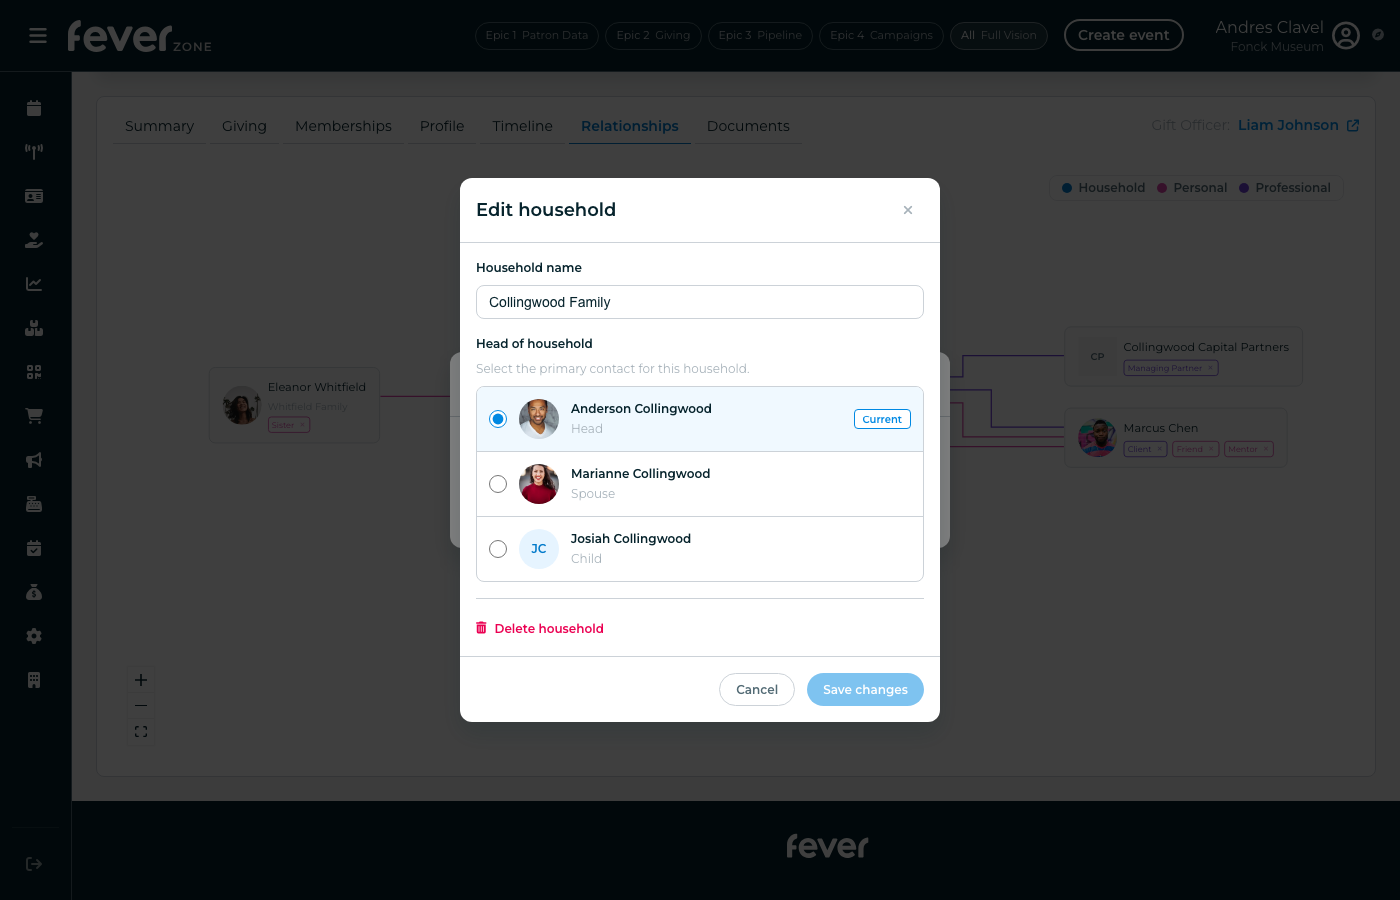
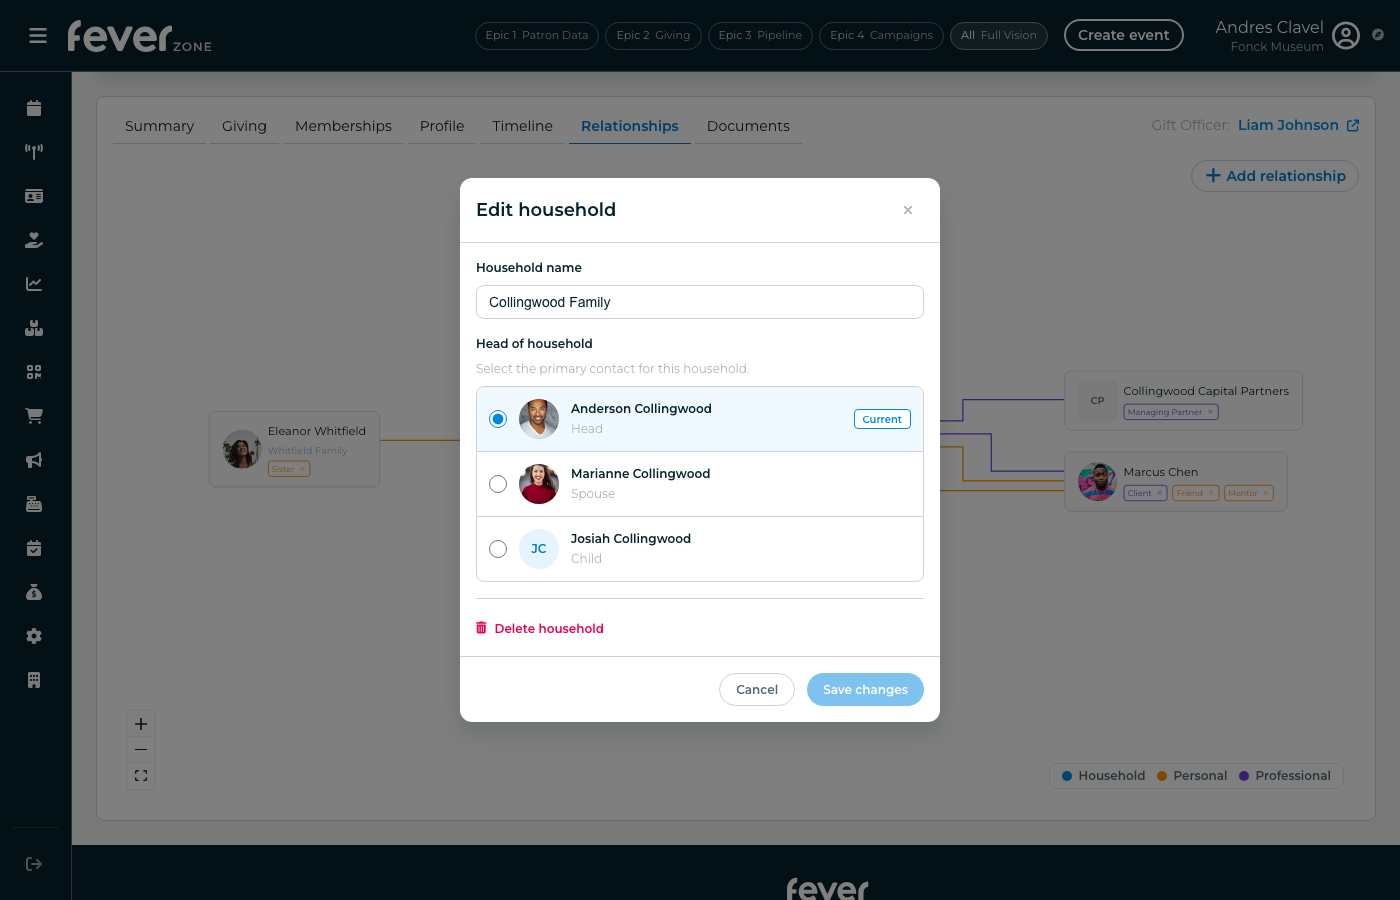
Recapture all walkthrough screenshots after modal redesign
Full refresh of 25 relationship screenshots + 1 new (02e-household-form)
to reflect redesigned modals: single-page forms for Household/Organization,
inline conflict detection, updated badge labels (Wife/Son vs Spouse/Child),
orange Personal color, bottom-right legend, and member count on household card.
Walkthrough descriptions in productGuide.js updated to match current UI.

diff --git a/src/data/productGuide.js b/src/data/productGuide.js
@@ -380,28 +380,28 @@ const GUIDE_CONTENT = {
                 {
                   title: 'Relationship Graph',
                   description:
-                    'The graph displays all relationship types color-coded: blue for Household, pink for Personal, purple for Professional/Organization. A legend in the top-right shows which types are present. The central patron sits inside the household card (if they belong to one), with external connections branching outward.',
+                    'The graph displays all relationship types color-coded: blue for Household, orange for Personal, purple for Professional/Organization. A legend in the bottom-right shows which types are present. The central patron sits inside the household card (showing member count, e.g., "Collingwood Family (3)"), with external connections branching outward. Two CTAs appear inside the household card: "+ Add household member" and "Edit household".',
                   media: '/screenshots/relationships/09-graph-fitview.png',
                   mediaType: 'image',
                 },
                 {
                   title: 'Bridging Cards & Staggered Routing',
                   description:
-                    'When a patron has both personal and professional relationships (e.g., Marcus Chen as Friend + Client + Mentor), the graph consolidates them into a single bridging card with stacked role badges. Each connector edge arrives at a different vertical offset to prevent overlap.',
+                    'When a patron has both personal and professional relationships (e.g., Marcus Chen as Client + Friend + Mentor), the graph consolidates them into a single bridging card with stacked role badges. Each connector edge arrives at a different vertical offset to prevent overlap.',
                   media: '/screenshots/relationships/01-graph-overview.png',
                   mediaType: 'image',
                 },
                 {
                   title: 'Edge Labels & Color Coding',
                   description:
-                    'Connector edges display the role name (e.g., "Spouse", "Sister", "Client") as an inline label, color-matched to the relationship type. This keeps the graph self-documenting — no need to hover or click to understand each connection.',
+                    'Connector edges display the role name (e.g., "Wife", "Sister", "Client") as an inline label, color-matched to the relationship type. This keeps the graph self-documenting — no need to hover or click to understand each connection.',
                   media: '/screenshots/relationships/14-edge-labels.png',
                   mediaType: 'image',
                 },
                 {
                   title: 'Empty State',
                   description:
-                    'Patrons with no relationships see a centered "No Relationships Mapped" message with a prominent "+ Add relationship" CTA (showing all four types since no household exists yet). The empty state helps onboard new patrons into the relationship graph.',
+                    'Patrons with no relationships see a centered message — "Explore the connections between users, such as Households, professional ties, and more" — with a prominent blue "+ Add new relationship" button. The empty state guides onboarding for new patrons.',
                   media: '/screenshots/relationships/12-empty-state.png',
                   mediaType: 'image',
                 },
@@ -414,42 +414,42 @@ const GUIDE_CONTENT = {
                 {
                   title: '1. Choose Relationship Type',
                   description:
-                    'Two CTAs exist once a household is created: the household card\'s "+ Add household member" button (opens a single-page household form), and the toolbar\'s "+ Add relationship" button (shows Personal, Professional, and Organization types — Household is excluded since one already exists). Before any household exists, the toolbar CTA shows all four types. Selecting Household opens a dedicated single-page form; other types use a multi-step wizard.',
+                    'Two CTAs exist once a household is created: the household card\'s "+ Add household member" button (opens a single-page form), and the toolbar\'s "+ Add relationship" button (shows Personal, Professional, and Organization types — Household is excluded since one already exists). Before any household exists, the toolbar CTA shows all four types including Household.',
                   media: '/screenshots/relationships/02a-add-type-selection.png',
                   mediaType: 'image',
                 },
                 {
-                  title: '2a. Household: Single-Page Form',
+                  title: '2a. Household & Organization: Single-Page Form',
                   description:
-                    'Household relationships use a single-page form with four sections: (1) Related individual — floating-label search field to find a patron, (2) Relationship — two floating-label role selects with auto-suggest reciprocal, (3) Household — create household toggle, household name, and head-of-household toggle (only shown when neither patron has an existing household), (4) Notes — optional textarea for context (e.g., "Divorced 2022, introduced by board chair"). Conflict detection is shown inline between sections 1 and 2.',
-                  media: null,
+                    'Household and Organization relationships use a single-page form with three sections: (1) Related individual — a searchable patron dropdown with floating label, (2) Relationship — two floating-label role selects ("Anderson Collingwood is the..." / "Related individual is the...") with auto-suggest reciprocal, and (3) Notes — optional textarea for context. If a conflict is detected (e.g., the patron already belongs to another household), warnings and transfer options appear inline between sections.',
+                  media: '/screenshots/relationships/02e-household-form.png',
                   mediaType: 'image',
                 },
                 {
-                  title: '2b. Other Types: Search for Patron',
+                  title: '2b. Personal & Professional: Find Contact',
                   description:
-                    'For Personal, Professional, and Organization types, the multi-step wizard continues: type a name or email to search existing patrons. Results show avatar, name, email. Select the patron to proceed to role assignment.',
+                    'For Personal and Professional types, a multi-step wizard starts with "Find contact": type a name or email to search existing patrons. Results show avatar, name, and email. Select the patron to proceed to role assignment.',
                   media: '/screenshots/relationships/02b-add-search-results.png',
                   mediaType: 'image',
                 },
                 {
-                  title: '3. Assign Roles',
+                  title: '3. Define Relationship',
                   description:
-                    'Choose the role that describes how the selected patron relates to the current patron. The system auto-fills the reciprocal role based on gender (e.g., Father → Son, Mother → Daughter). Both dropdowns are editable.',
+                    'The "Define relationship" step shows the linked patron with avatar and email, an info badge listing any existing relationships (e.g., "Financial Advisor (Professional), Friend (Personal), Mentor (Personal)"), two role selects with "Select role..." placeholders, an optional Notes textarea, and Cancel/Add relationship buttons.',
                   media: '/screenshots/relationships/02c-add-roles-step.png',
                   mediaType: 'image',
                 },
                 {
                   title: '4. Gender-Aware Reciprocal Roles',
                   description:
-                    'When selecting a gendered role like "Father", the system auto-suggests the correct reciprocal ("Son" for male, "Daughter" for female) based on the target patron\'s gender field. Gender-neutral roles like "Sibling" or "Friend" map to the same role on both sides.',
+                    'When selecting a gendered role like "Father", the system auto-suggests the correct reciprocal ("Son" for male, "Daughter" for female) based on the target patron\'s gender field. An "auto-suggested" badge appears next to the reciprocal select. Gender-neutral roles like "Sibling" or "Friend" map to the same role on both sides.',
                   media: '/screenshots/relationships/02d-gender-reciprocal.png',
                   mediaType: 'image',
                 },
                 {
                   title: 'Adding an Organization',
                   description:
-                    'Organization relationships link patrons to their employers, boards, or volunteer affiliations. The search shows organization records, and the role field uses titles like "Managing Partner" or "Board Member".',
+                    'Organization relationships use the same single-page form as Household: searchable patron/organization dropdown, role selects (e.g., "Managing Partner", "Board Member"), and optional notes. This links patrons to employers, boards, or volunteer affiliations.',
                   media: '/screenshots/relationships/11-add-org-search.png',
                   mediaType: 'image',
                 },
@@ -462,49 +462,49 @@ const GUIDE_CONTENT = {
                 {
                   title: 'Edit Household',
                   description:
-                    'Click "Edit household" to rename the household, change the Head of household (radio selection), or delete the household. The current Head is marked with a "Current" badge. All members are listed with their roles.',
+                    'Click "Edit household" to rename the household, change the Head of household (radio selection), or delete the household. The current Head is marked with a "Current" badge. All members are listed with their roles (Head, Spouse, Child).',
                   media: '/screenshots/relationships/03a-edit-household.png',
                   mediaType: 'image',
                 },
                 {
                   title: 'Dissolve Household — Option A: End Everything',
                   description:
-                    'Click "Delete household" to reveal dissolution options. Option A (default): "Dissolve household and end all family relationships" — removes the household and marks all relationships between members as ended. Members disappear from the graph.',
+                    'Click "Delete household" to reveal dissolution options within the same Edit household modal. Option A (default): "Dissolve household and end all family relationships" — removes the household and marks all relationships between members as ended. The red "Dissolve everything" button confirms.',
                   media: '/screenshots/relationships/03b-dissolve-options.png',
                   mediaType: 'image',
                 },
                 {
                   title: 'After Dissolve Everything',
                   description:
-                    'Result: the household card is gone. Marianne and Josiah are removed entirely. Anderson becomes a standalone node. The legend no longer shows blue Household — only Personal (pink) and Professional (purple) remain. Undo/redo buttons appear.',
+                    'Result: the household card is gone. Marianne and Josiah are removed entirely. Anderson becomes a standalone node connected only to Eleanor, Marcus, and Collingwood Capital Partners. The legend no longer shows blue Household — only Personal (orange) and Professional (purple) remain. Undo/redo buttons appear.',
                   media: '/screenshots/relationships/03b-after-dissolve-all.png',
                   mediaType: 'image',
                 },
                 {
                   title: 'Dissolve Household — Option B: Keep Records',
                   description:
-                    'Option B: "Dissolve household but keep relationship records" — removes only the household grouping. Individual family relationships are converted to Personal type and remain active. Members stay visible on the graph as personal connections.',
+                    'Option B: "Dissolve household but keep relationship records" — removes only the household grouping. Individual family relationships are converted to Personal type and remain active. The red "Dissolve household only" button confirms.',
                   media: '/screenshots/relationships/03c-dissolve-keep-rels.png',
                   mediaType: 'image',
                 },
                 {
                   title: 'After Keep Records',
                   description:
-                    'Result: the household card dissolves but all members remain visible as standalone Personal cards — Marianne (Spouse), Josiah (Son), Eleanor (Sister). Pink badges confirm relationships were preserved. Compare with Option A where members vanish.',
+                    'Result: the household card dissolves but all members remain visible as standalone Personal cards — Marianne (Wife), Josiah (Son), Eleanor (Sister). Orange badges confirm relationships were preserved. Compare with Option A where members vanish entirely.',
                   media: '/screenshots/relationships/03c-after-keep-rels.png',
                   mediaType: 'image',
                 },
                 {
                   title: 'Remove from Household (Move Out)',
                   description:
-                    'The arrow icon on each household member row removes that member from the household without severing the family bond. Household relationships are soft-deleted and automatically recreated as Personal connections — modeling real-world scenarios like a child leaving for college.',
+                    'The arrow icon on each household member row opens a "Remove from household" modal. It confirms the member and household name, and explains: "Family relationships will be preserved as personal connections." The member will appear as a personal contact on the graph instead of within the household card.',
                   media: '/screenshots/relationships/07-move-out-modal.png',
                   mediaType: 'image',
                 },
                 {
                   title: 'After Move Out',
                   description:
-                    'Result: Josiah leaves the household card and appears as a standalone Personal card with a "Son" badge. The household card now shows only Anderson and Marianne. The family bond is preserved — Josiah just lives independently.',
+                    'Result: Josiah leaves the household card and appears as a standalone Personal card with an orange "Son" badge. The household card shrinks to "Collingwood Family (2)" showing only Anderson and Marianne. The family bond is preserved — Josiah just lives independently.',
                   media: '/screenshots/relationships/07-after-move-out.png',
                   mediaType: 'image',
                 },
@@ -517,42 +517,42 @@ const GUIDE_CONTENT = {
                 {
                   title: 'Cross-Household Conflict',
                   description:
-                    'Adding a patron who already belongs to another household triggers a conflict modal. The system warns about the existing household, explains if transfer would dissolve it (when only one member would remain), and offers "Transfer to this household" or "Choose different contact".',
+                    'Adding a patron who already belongs to another household triggers inline conflict detection within the form. A yellow warning identifies the existing household and role (e.g., "Paul Fairfax is already a member of the Fairfax Family household. They are the Head."). A blue info note explains dissolution impact if transfer would leave only one member. Two actions: "Choose different contact" or the orange "Transfer" button.',
                   media: '/screenshots/relationships/05-cross-household-conflict.png',
                   mediaType: 'image',
                 },
                 {
                   title: 'End Relationship — 3+ Member Household',
                   description:
-                    'Ending a household relationship in a 3+ member household warns about cascade removal: the departing member\'s relationships with ALL household members will be ended (not just with the current patron). The system also explains that removed relationships get Personal-type fallbacks.',
+                    'Ending a household relationship in a 3+ member household shows an "End relationship" modal with a cascade warning: the departing member will be removed from the household and their relationships with all other household members will also be ended. A blue info note clarifies this only removes the CRM relationship, not shared memberships.',
                   media: '/screenshots/relationships/06-end-rel-3member.png',
                   mediaType: 'image',
                 },
                 {
                   title: 'After Ending — 3+ Member Cascade',
                   description:
-                    'Result: Josiah is removed from the household. The household card shrinks to Anderson + Marianne only. All other connections (Eleanor, Marcus, Collingwood Capital Partners) are unaffected. The cascade only touches the departing member.',
+                    'Result: Josiah is removed from the household. The household card shrinks to "Collingwood Family (2)" with Anderson + Marianne only. All other connections (Eleanor, Marcus, Collingwood Capital Partners) are unaffected. Undo/redo buttons appear.',
                   media: '/screenshots/relationships/06-after-end-rel-3member.png',
                   mediaType: 'image',
                 },
                 {
                   title: 'End Relationship — 2-Member Household (Dissolution)',
                   description:
-                    'In a 2-member household, ending the only relationship triggers a dissolution warning: both patrons will become standalone. The system clearly states this only removes the CRM relationship, not shared memberships — use the Memberships tab for beneficiary access.',
+                    'In a 2-member household (Paul & Elizabeth Fairfax), ending the only relationship triggers a dissolution warning: "Ending this relationship will dissolve the Fairfax Family. Both patrons will become standalone." A blue info note clarifies this only removes the CRM relationship, not shared memberships — use the Memberships tab for beneficiary access.',
                   media: '/screenshots/relationships/08-end-rel-2member.png',
                   mediaType: 'image',
                 },
                 {
                   title: 'After 2-Member Dissolution',
                   description:
-                    'Result: the graph shows the empty state — "No Relationships Mapped". The household and its sole remaining member\'s connection are both gone. The patron is now completely standalone with an "Add relationship" prompt.',
+                    'Result: the graph shows the empty state — "Explore the connections between users..." with a blue "+ Add new relationship" button. The household and all connections are gone. The patron is now completely standalone.',
                   media: '/screenshots/relationships/08-after-end-rel-2member.png',
                   mediaType: 'image',
                 },
                 {
                   title: 'Undo / Redo',
                   description:
-                    'All relationship actions (add, end, dissolve, transfer, move-out, household edits) support undo/redo. A compact toolbar appears in the top-left of the graph when action history exists. Gift officers can safely experiment with changes and reverse mistakes.',
+                    'All relationship actions (add, end, dissolve, transfer, move-out, household edits) support undo/redo. A compact toolbar with undo/redo arrow buttons appears in the top-left of the graph when action history exists. Gift officers can safely experiment with changes and reverse mistakes.',
                   media: '/screenshots/relationships/13-undo-toast.png',
                   mediaType: 'image',
                 },
